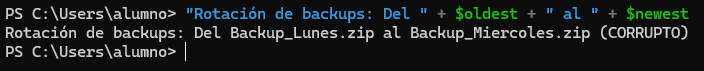
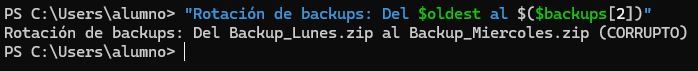
pr0604

diff --git a/ut06/pr0604/pr0604.md b/ut06/pr0604/pr0604.md
@@ -5,14 +5,14 @@
 ### 📌 1. Reconfiguración de DNS y Verificación
 **Paso 1:**
 ```powershell
-$dns = "192.168.1.10", "10.0.0.50"
+$dns = @("192.168.1.10", "10.0.0.50")
 ```
 
 > 💬 El primero se encuentra en la posición 0 y el segundo en la posición 1.
 
 **Paso 2:**
 ```powershell
-"Configuración actual: " + $dns[0] + " - " + $dns[1]
+"Configuración actual: $($dns[0]) - $($dns[1])"
 ```
 
 ![Configuración actual](Imagenes/Ej1-2.png)
@@ -24,14 +24,14 @@ $dns[1] = "8.8.8.8"
 
 **Paso 4:**
 ```powershell
-$dns.Length
+"Número total de servidores DNS: $($dns.Count)"
 ```
 
 ![Contar DNS](Imagenes/Ej1-4.png)
 
 **Paso 5:**
 ```powershell
-"Configuración final: " + $dns[0] + " - " + $dns[1]
+"Configuración final: $($dns[0]) - $($dns[1])"
 ```
 
 ![Configuración final](Imagenes/Ej1-5.png)
@@ -39,15 +39,8 @@ $dns.Length
 ### 📌 2. Rotación de logs de backups (LIFO - Last In, First Out)
 **Paso 1:**
 ```powershell
-$backups = @(
-"Backup_Lunes.zip"
-"Backup_Martes.zip"
-"Backup_Miercoles.zip")
+$backups = @("Backup_Lunes.zip", "Backup_Martes.zip", "Backup_Miercoles.zip")
 ```
-
-![Array Backups](Imagenes/Ej2-1.png)
-
-> 💬 El primero se encuentra en la posición 0, el segundo en la posición 1 y el tercero en la posición 2.
 
 **Paso 2:**
 ```powershell
@@ -66,7 +59,7 @@ $backups[2] = $backups[2] + " (CORRUPTO)"
 
 **Paso 5:**
 ```powershell
-"Rotación de backups: Del " + $oldest + " al " + $newest
+"Rotación de backups: Del $oldest al $($backups[2])"
 ```
 
 ![](Imagenes/Ej2-5.png)
@@ -80,8 +73,8 @@ $incidencias = New-Object System.Collections.ArrayList
 
 **Paso 2:**
 ```powershell
-$null = $incidencias.Add("Monitor parpadea")
-$null = $incidencias.Add("Ratón no va")
+[void]$incidencias.Add("Monitor parpadea")
+[void]$incidencias.Add("Ratón no va")
 ```
 
 **Paso 3:**
@@ -106,9 +99,9 @@ $incidencias
 **Paso 1:**
 ```powershell
 $listaNegra = New-Object System.Collections.ArrayList
-$null = $listaNegra.Add("10.10.10.5")
-$null = $listaNegra.Add("192.168.50.4")
-$null = $listaNegra.Add("80.80.80.80")
+[void]$listaNegra.Add("10.10.10.5")
+[void]$listaNegra.Add("192.168.50.4")
+[void]$listaNegra.Add("80.80.80.80")
 ```
 
 **Paso 2:**
@@ -119,17 +112,21 @@ $NuevaAmenaza = "192.168.50.4"
 **Paso 3:**
 ```powershell
 if ($ListaNegra -contains $NuevaAmenaza) {
-"La IP " + $NuevaAmenaza + " ya estaba bloqueada."
+"La IP $NuevaAmenaza ya estaba bloqueada. No se hace nada."
+Write-Host -ForegroundColor Yellow
 } else {
-$null = $ListaNegra.Add($NuevaAmenaza)
-"La IP " + $NuevaAmenaza + " se ha añadido a la lista negra."}
+[void]$ListaNegra.Add($NuevaAmenaza)
+"La IP $NuevaAmenaza se ha añadido a la lista negra."
+Write-Host -ForegroundColor Red
+}
 ```
 
 ![Comprobar IP](Imagenes/Ej4-3.png)
 
 **Paso 4:**
 ```powershell
-$listaNegra | Sort-Object
+$ListaNegra.Sort()
+$ListaNegra
 ```
 
 ![Mostrar lista](Imagenes/Ej4-4.png)
@@ -162,7 +159,7 @@ $puertos.Remove(23)
 
 **Paso 5:**
 ```powershell
-$puertos.Add("HTTP")
+$puertos.Remove("HTTP")
 ```
 
 ![Error](Imagenes/Ej5-5.png)
@@ -171,7 +168,9 @@ $puertos.Add("HTTP")
 
 **Paso 6:**
 ```powershell
-$listaNegra | Sort-Object
+$puertos.Sort()
+"Puertos autorizados en el Firewall (Hardened)"
+$puertos
 ```
 
 ![Mostrar lista](Imagenes/Ej5-6.png)
@@ -179,13 +178,8 @@ $listaNegra | Sort-Object
 ### 📌 6. Inventario de servicios críticos (List[string])
 **Paso 1:**
 ```powershell
-$arrayServicios = "Spooler", "W3SVC", "LanmanWorkstation"
-
-$servicios = [System.Collections.Generic.List[string]]::new()
-
-foreach ($s in $arrayServicios) {
-$servicios.Add($s)
-}
+$arrayServicios = @("Spooler", "W3SVC", "LanmanWorkstation")
+$servicios = [System.Collections.Generic.List[string]]::new([string[]]$arrayServicios)
 ```
 
 ![](Imagenes/Ej6-1.png)
